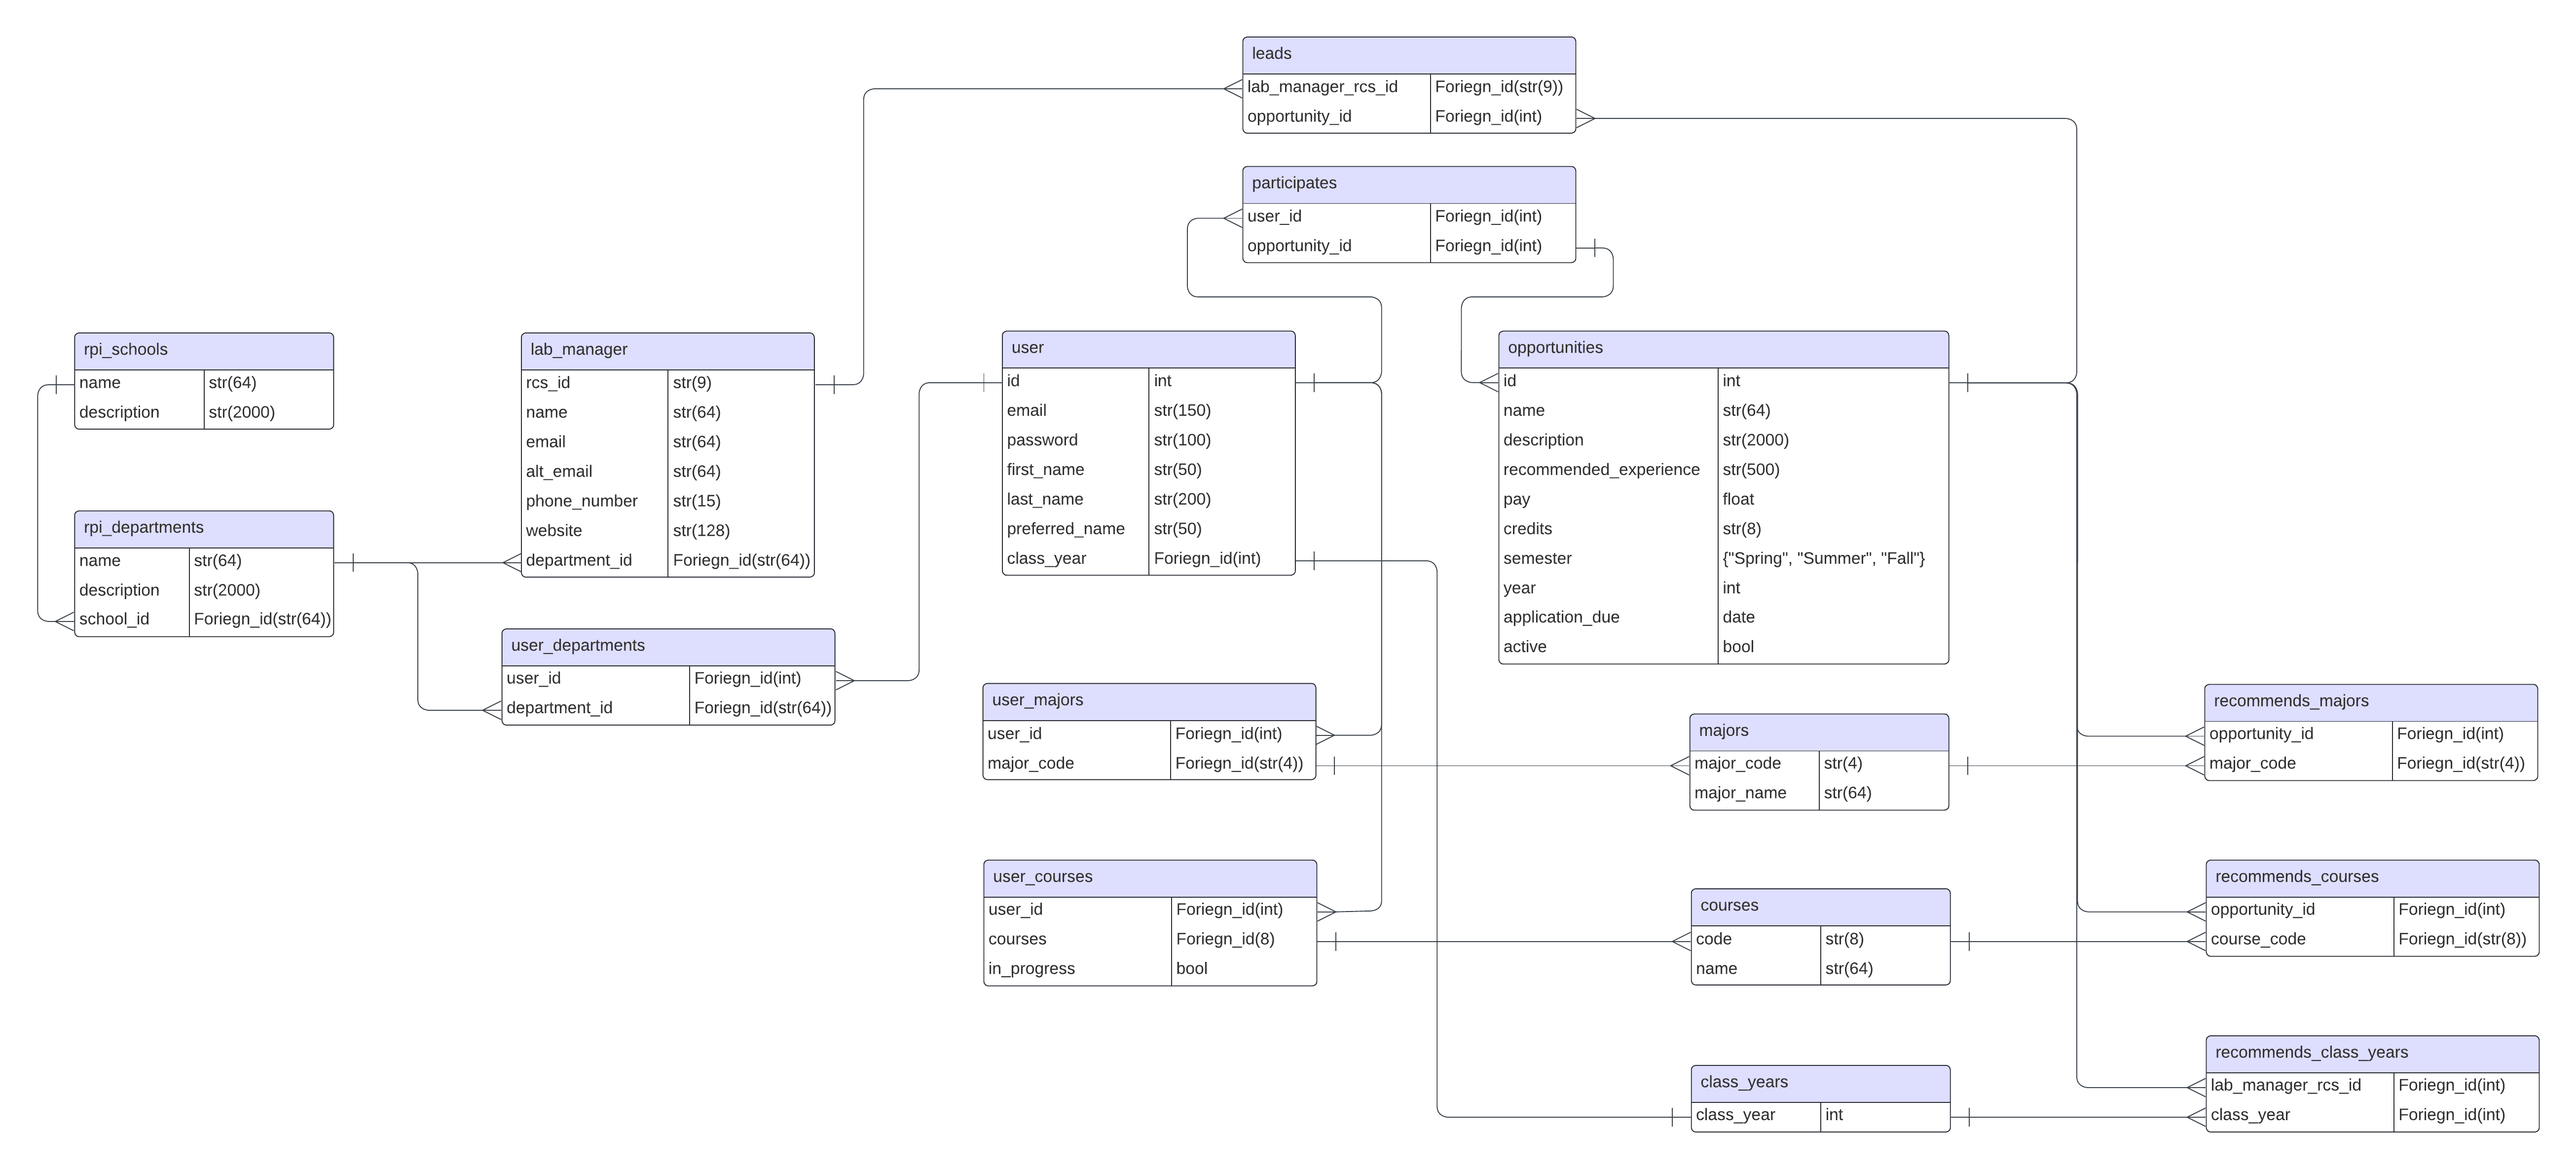
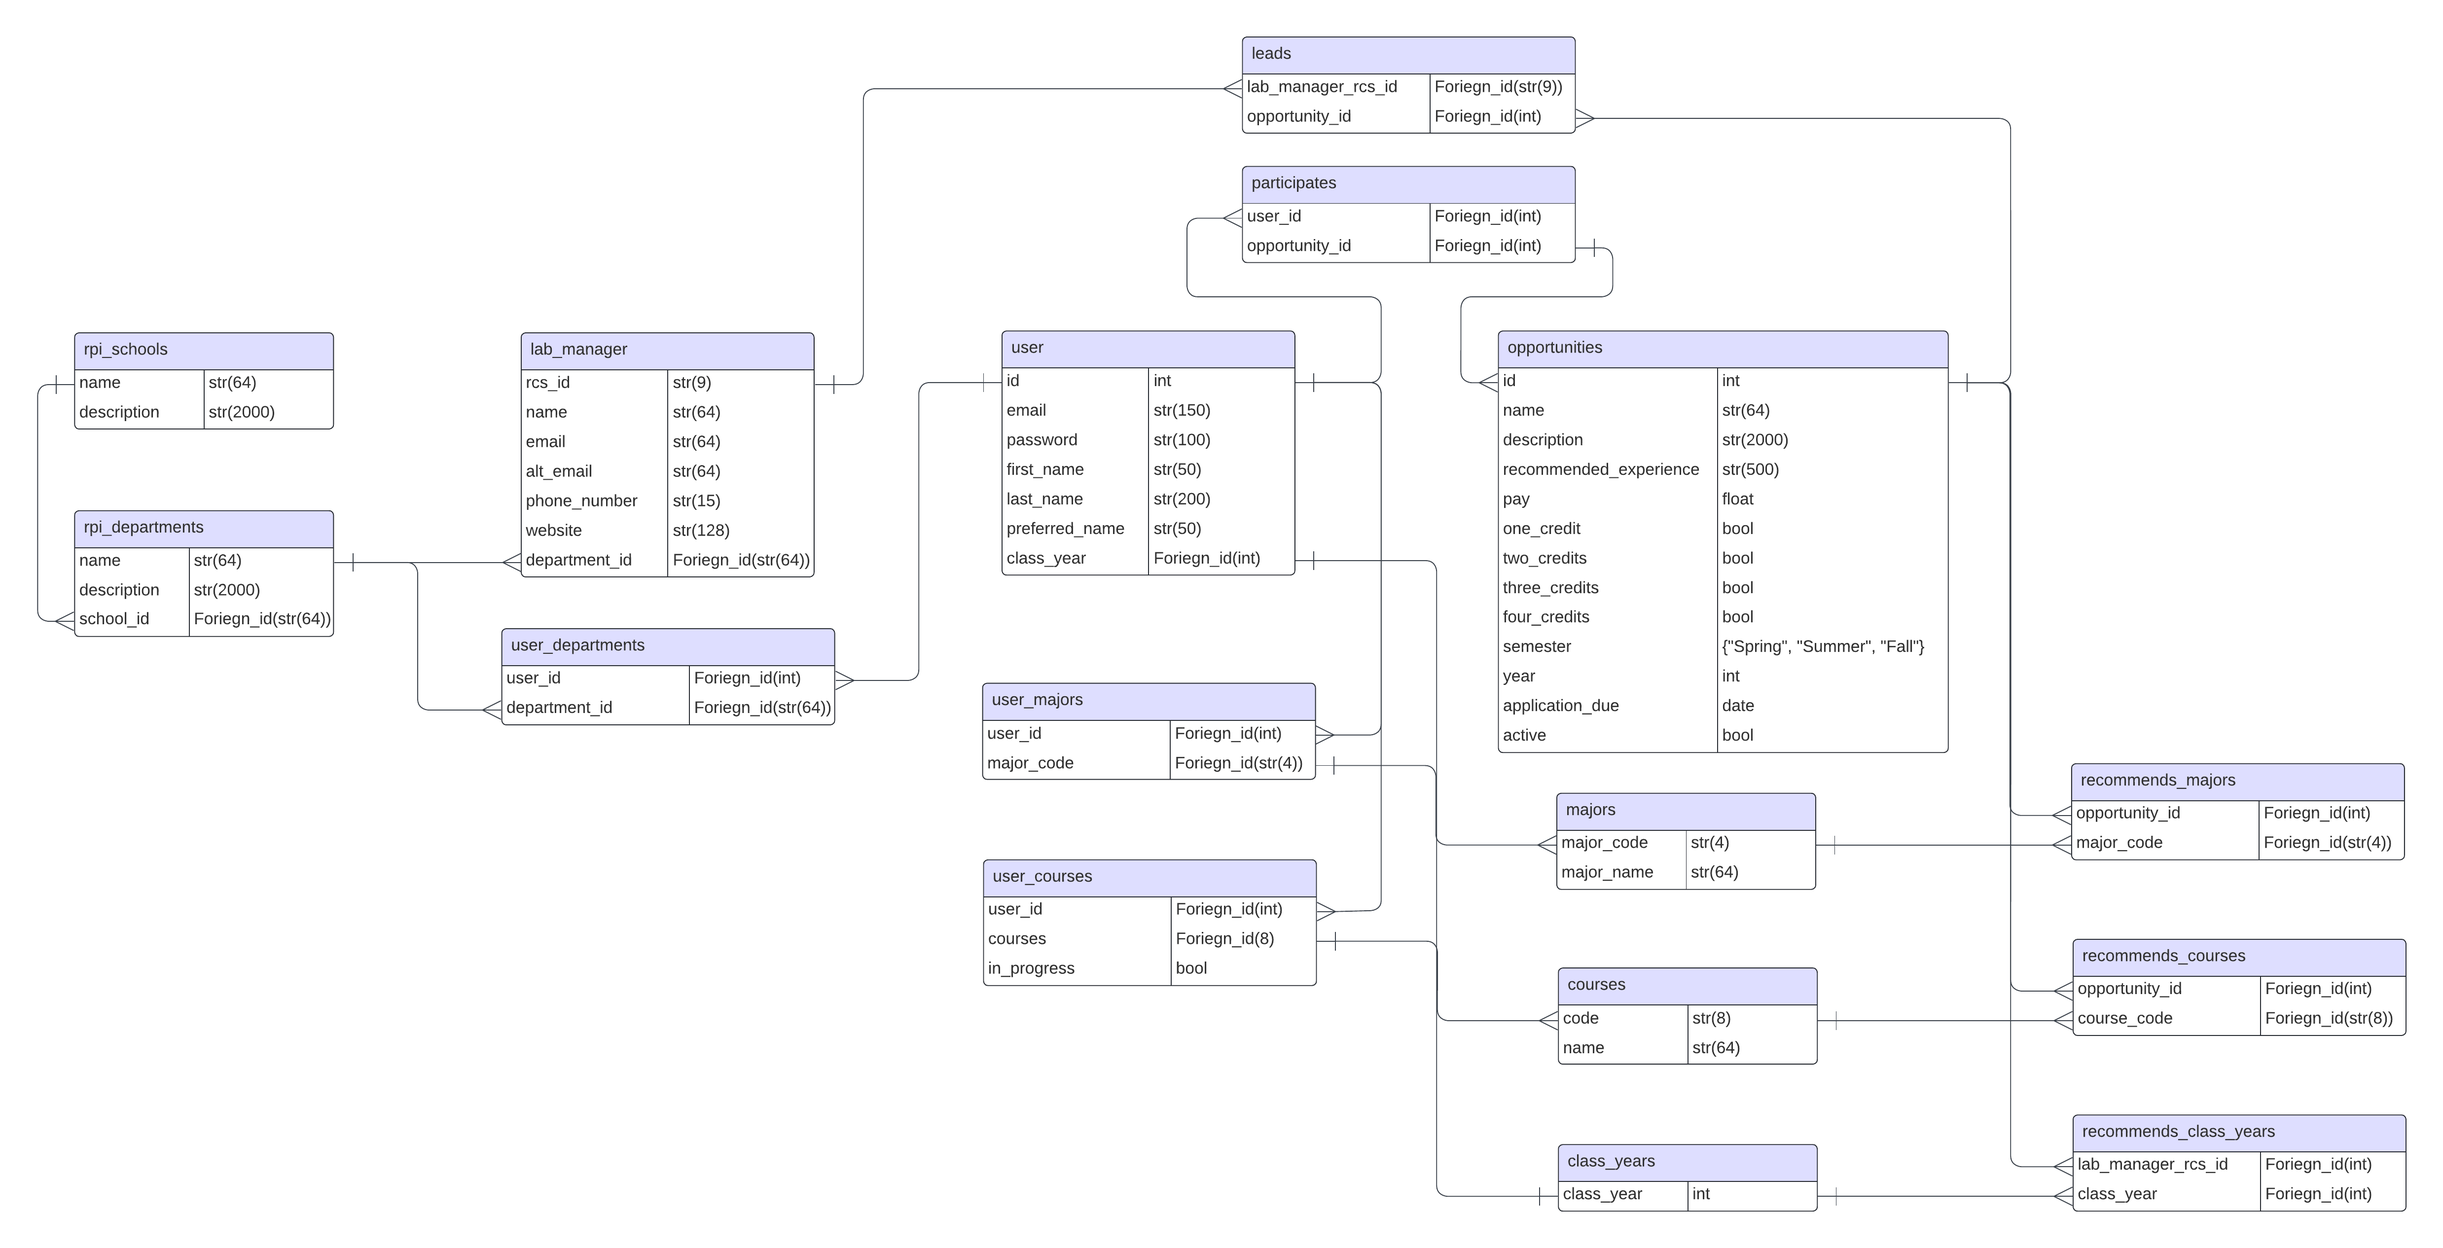
new columns for credits

diff --git a/labconnect/models.py b/labconnect/models.py
@@ -102,11 +102,16 @@ class Opportunities(db.Model, CustomSerializerMixin):
         "description",
         "recommended_experience",
         "pay",
-        "credits",
+        "one_credit",
+        "two_credits",
+        "three_credits",
+        "four_credits",
         "semester",
         "year",
         "application_due",
         "active",
+        "last_updated",
+        "location",
     )
     serialize_rules = ()
 
@@ -115,7 +120,10 @@ class Opportunities(db.Model, CustomSerializerMixin):
     description = db.Column(db.String(2000), nullable=True, unique=False)
     recommended_experience = db.Column(db.String(500), nullable=True, unique=False)
     pay = db.Column(db.Float, nullable=True, unique=False)
-    credits = db.Column(db.String(8), nullable=True, unique=False)
+    one_credit = db.Column(db.Boolean, nullable=True, unique=False)
+    two_credits = db.Column(db.Boolean, nullable=True, unique=False)
+    three_credits = db.Column(db.Boolean, nullable=True, unique=False)
+    four_credits = db.Column(db.Boolean, nullable=True, unique=False)
     semester = db.Column(Enum(SemesterEnum), nullable=True, unique=False)
     year = db.Column(db.Integer, nullable=True, unique=False)
     application_due = db.Column(db.Date, nullable=True, unique=False)
